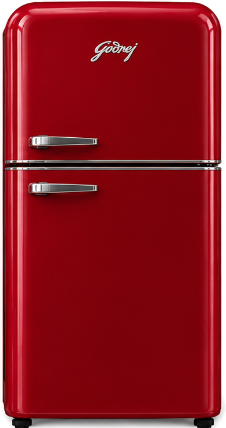
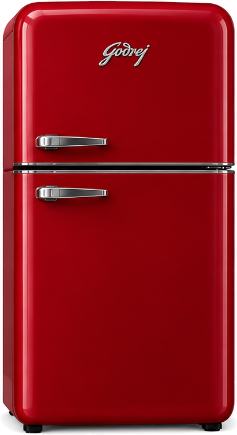
feat(fridges): upgrade all remaining models 10-15 and 4-6 to photorealistic renders

Changed region(s): [[0.0, 0.0, 0.9912, 1.0], [0.4027, 0.0911, 0.6504, 0.1519]]

diff --git a/src/data/fridgeCatalog.ts b/src/data/fridgeCatalog.ts
@@ -89,12 +89,12 @@ export const FRIDGE_MODELS: FridgeModel[] = [
     "colorHex": "#475569",
     "countryCategory": "Indian",
     "imageUrl": "/fridges/whirlpool-intellifresh-pro.png",
-    "aspectRatio": 0.5,
+    "aspectRatio": 0.53,
     "magneticRegion": {
-      "top": 0.06,
-      "left": 0.1,
-      "width": 0.82,
-      "height": 0.88
+      "top": 0.05,
+      "left": 0.08,
+      "width": 0.84,
+      "height": 0.9
     },
     "description": "Advanced 3D airflow with Zeolite technology and recessed pocket handles in sleek dark steel.",
     "features": [
@@ -114,11 +114,11 @@ export const FRIDGE_MODELS: FridgeModel[] = [
     "colorHex": "#BE123C",
     "countryCategory": "Indian",
     "imageUrl": "/fridges/godrej-edge-retro-ruby.png",
-    "aspectRatio": 0.53,
+    "aspectRatio": 0.54,
     "magneticRegion": {
       "top": 0.06,
-      "left": 0.1,
-      "width": 0.8,
+      "left": 0.08,
+      "width": 0.84,
       "height": 0.88
     },
     "description": "Curved single-door vintage classic with chrome teardrop latch and deep ruby enamel luster.",
@@ -139,12 +139,12 @@ export const FRIDGE_MODELS: FridgeModel[] = [
     "colorHex": "#64748B",
     "countryCategory": "Indian",
     "imageUrl": "/fridges/haier-bottom-mounted.png",
-    "aspectRatio": 0.46,
+    "aspectRatio": 0.51,
     "magneticRegion": {
-      "top": 0.06,
+      "top": 0.05,
       "left": 0.08,
       "width": 0.84,
-      "height": 0.88
+      "height": 0.9
     },
     "description": "Ergonomic bottom freezer refrigerator that reduces bending by 90% with spacious upper refrigerator surface.",
     "features": [
@@ -238,13 +238,13 @@ export const FRIDGE_MODELS: FridgeModel[] = [
     "finish": "Titanium Silver Metal Finish",
     "colorHex": "#CBD5E1",
     "countryCategory": "Indian",
-    "imageUrl": "/fridges/ifb-fastcool-inverter.svg",
-    "aspectRatio": 0.58,
+    "imageUrl": "/fridges/ifb-fastcool-inverter.png",
+    "aspectRatio": 0.46,
     "magneticRegion": {
-      "top": 0.08,
+      "top": 0.05,
       "left": 0.08,
-      "width": 0.82,
-      "height": 0.84
+      "width": 0.84,
+      "height": 0.89
     },
     "description": "Durable metal door refrigerator with 360-degree surround cooling and metal ice trays.",
     "features": [
@@ -263,13 +263,13 @@ export const FRIDGE_MODELS: FridgeModel[] = [
     "finish": "SmartSteel Satin Finish",
     "colorHex": "#64748B",
     "countryCategory": "Indian",
-    "imageUrl": "/fridges/liebherr-duotone-premium.svg",
-    "aspectRatio": 0.58,
+    "imageUrl": "/fridges/liebherr-duotone-premium.png",
+    "aspectRatio": 0.42,
     "magneticRegion": {
-      "top": 0.08,
-      "left": 0.08,
-      "width": 0.82,
-      "height": 0.84
+      "top": 0.05,
+      "left": 0.1,
+      "width": 0.8,
+      "height": 0.89
     },
     "description": "Swiss-engineered precision refrigeration with SmartSteel scratch-resistant magnetic finish.",
     "features": [
@@ -288,13 +288,13 @@ export const FRIDGE_MODELS: FridgeModel[] = [
     "finish": "Pastel Mint Green High-Gloss Enamel",
     "colorHex": "#A7F3D0",
     "countryCategory": "International",
-    "imageUrl": "/fridges/retro-mint-smeg.svg",
-    "aspectRatio": 0.56,
+    "imageUrl": "/fridges/retro-mint-smeg.png",
+    "aspectRatio": 0.49,
     "magneticRegion": {
-      "top": 0.08,
+      "top": 0.06,
       "left": 0.08,
-      "width": 0.8,
-      "height": 0.84
+      "width": 0.84,
+      "height": 0.88
     },
     "description": "Mid-century iconic curved profile with chrome horizontal pull handle and cheerful pastel enamel.",
     "features": [
@@ -313,10 +313,10 @@ export const FRIDGE_MODELS: FridgeModel[] = [
     "finish": "Commercial Heavy-Gauge Stainless Steel",
     "colorHex": "#94A3B8",
     "countryCategory": "International",
-    "imageUrl": "/fridges/sub-zero-pro-sidebyside.svg",
-    "aspectRatio": 0.68,
+    "imageUrl": "/fridges/sub-zero-pro-sidebyside.png",
+    "aspectRatio": 0.55,
     "magneticRegion": {
-      "top": 0.08,
+      "top": 0.12,
       "left": 0.06,
       "width": 0.88,
       "height": 0.84
@@ -338,13 +338,13 @@ export const FRIDGE_MODELS: FridgeModel[] = [
     "finish": "Fingerprint Resistant Stainless Steel",
     "colorHex": "#CBD5E1",
     "countryCategory": "International",
-    "imageUrl": "/fridges/ge-profile-french-door.svg",
-    "aspectRatio": 0.64,
+    "imageUrl": "/fridges/ge-profile-french-door.png",
+    "aspectRatio": 0.56,
     "magneticRegion": {
-      "top": 0.08,
+      "top": 0.05,
       "left": 0.06,
       "width": 0.88,
-      "height": 0.84
+      "height": 0.88
     },
     "description": "Spacious American French door design with dual magnetic upper doors and lower freezer pull drawer.",
     "features": [
@@ -363,13 +363,13 @@ export const FRIDGE_MODELS: FridgeModel[] = [
     "finish": "Monochrome Stainless with Satin Textured Handles",
     "colorHex": "#94A3B8",
     "countryCategory": "International",
-    "imageUrl": "/fridges/kitchenaid-architect-series.svg",
-    "aspectRatio": 0.64,
+    "imageUrl": "/fridges/kitchenaid-architect-series.png",
+    "aspectRatio": 0.58,
     "magneticRegion": {
-      "top": 0.08,
+      "top": 0.05,
       "left": 0.06,
       "width": 0.88,
-      "height": 0.84
+      "height": 0.88
     },
     "description": "Signature red medallion knurled handles on commercial stainless steel doors for serious home chefs.",
     "features": [
